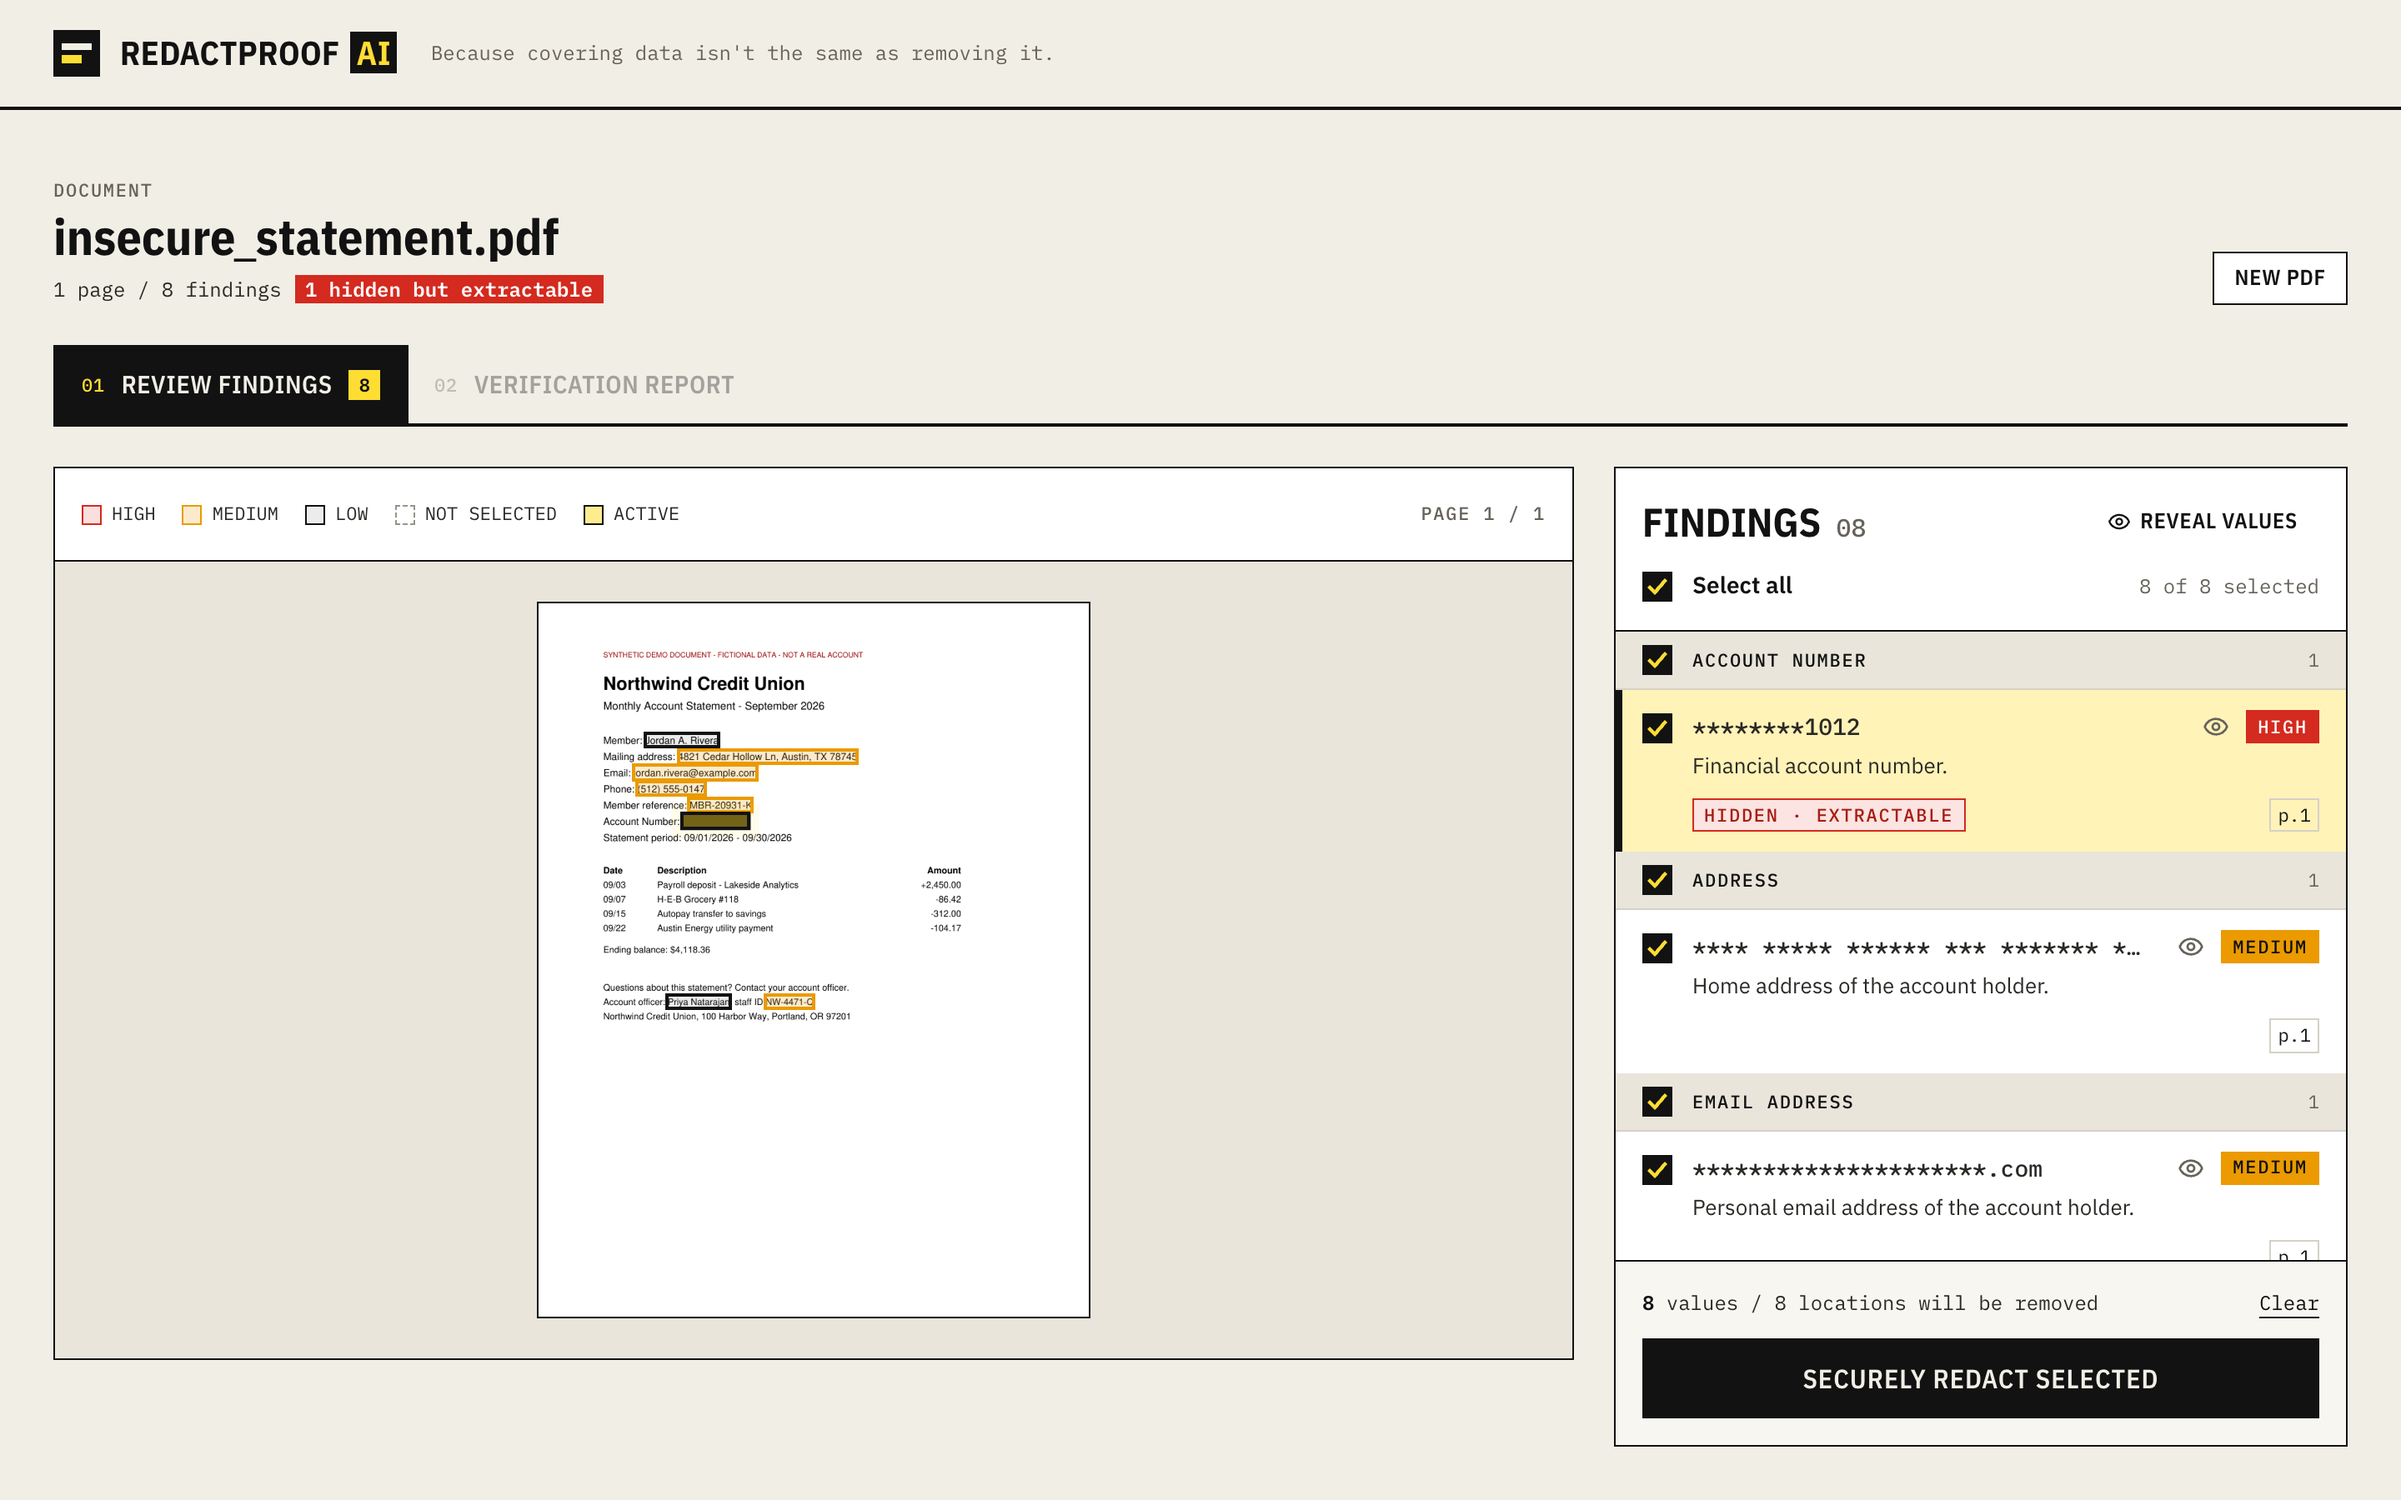
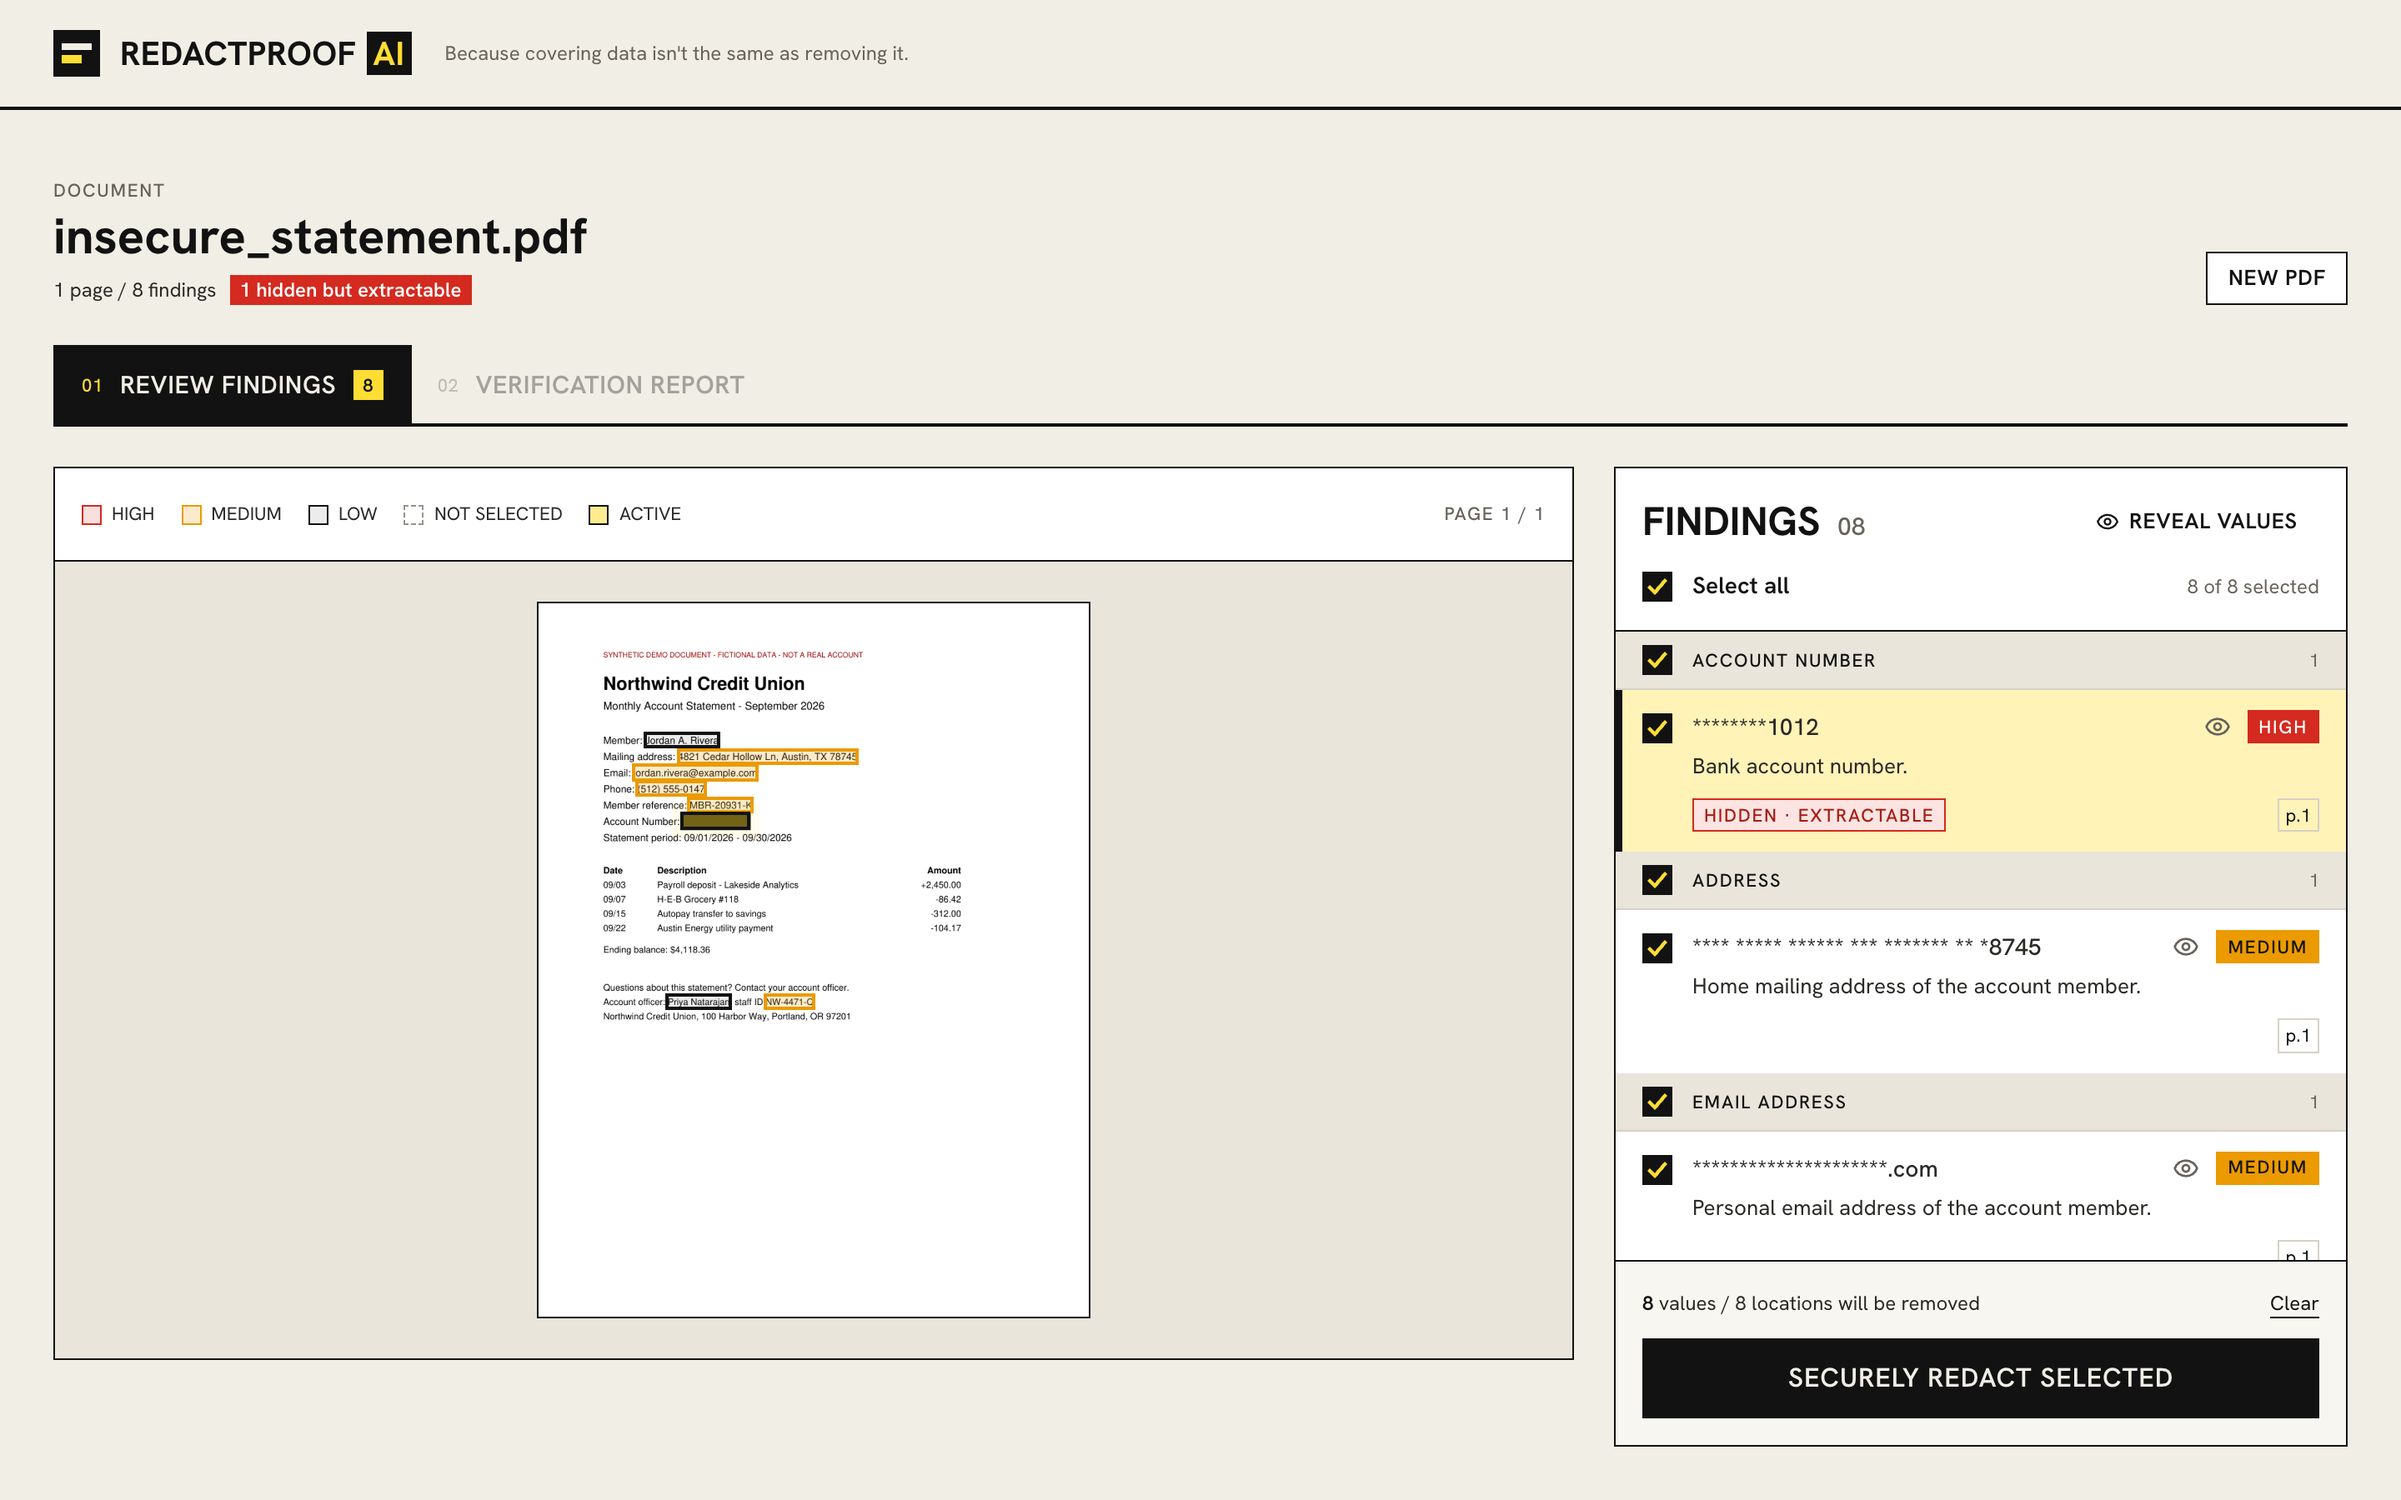
Use Hanken Grotesk for all text
Neue Montreal is a commercial typeface that can't be bundled in a public
repo, so use Hanken Grotesk (OFL) as a close stand-in for every style:
headlines, body, labels and data. Replace the IBM Plex packages.

diff --git a/frontend/src/index.css b/frontend/src/index.css
@@ -1,24 +1,20 @@
 @import 'tailwindcss';
 
-/* Self-hosted type (no third-party font requests). */
-@import '@fontsource/ibm-plex-sans/400.css';
-@import '@fontsource/ibm-plex-sans/500.css';
-@import '@fontsource/ibm-plex-sans/600.css';
-@import '@fontsource/ibm-plex-sans/700.css';
-@import '@fontsource/ibm-plex-sans-condensed/600.css';
-@import '@fontsource/ibm-plex-sans-condensed/700.css';
-@import '@fontsource/ibm-plex-mono/400.css';
-@import '@fontsource/ibm-plex-mono/500.css';
-@import '@fontsource/ibm-plex-mono/600.css';
+/* Self-hosted type (no third-party font requests). Hanken Grotesk stands in for Neue Montreal. */
+@import '@fontsource/hanken-grotesk/400.css';
+@import '@fontsource/hanken-grotesk/500.css';
+@import '@fontsource/hanken-grotesk/600.css';
+@import '@fontsource/hanken-grotesk/700.css';
 
 /*
  * Design tokens. Components use these names only (bg-paper, text-danger-ink, border-ink…),
  * so the whole UI can be re-themed from this block. Corners are square by design.
  */
 @theme {
-  --font-sans: 'IBM Plex Sans', ui-sans-serif, system-ui, sans-serif;
-  --font-display: 'IBM Plex Sans Condensed', 'IBM Plex Sans', ui-sans-serif, sans-serif;
-  --font-mono: 'IBM Plex Mono', ui-monospace, 'SF Mono', Menlo, monospace;
+  /* One typeface everywhere; display and data styles differ by weight, case and tracking. */
+  --font-sans: 'Hanken Grotesk', ui-sans-serif, system-ui, sans-serif;
+  --font-display: var(--font-sans);
+  --font-mono: var(--font-sans);
 
   /* Paper and ink */
   --color-paper: #f1eee6;
@@ -53,6 +49,7 @@
 
 @layer base {
   html {
+    font-variant-numeric: tabular-nums;
     background: var(--color-paper);
     color: var(--color-body);
     -webkit-font-smoothing: antialiased;

diff --git a/frontend/README.md b/frontend/README.md
@@ -1,6 +1,6 @@
 # RedactProof AI — Frontend
 
-React + TypeScript + Vite + Tailwind CSS v4 + Lucide icons, with IBM Plex fonts bundled locally via `@fontsource` (no third-party font requests).
+React + TypeScript + Vite + Tailwind CSS v4 + Lucide icons, with the Hanken Grotesk font (a free, OFL-licensed stand-in for Neue Montreal) bundled locally via `@fontsource` (no third-party font requests). To use real Neue Montreal, add licensed web-font files and point `--font-sans` in `src/index.css` at them.
 
 ## Run locally
 
